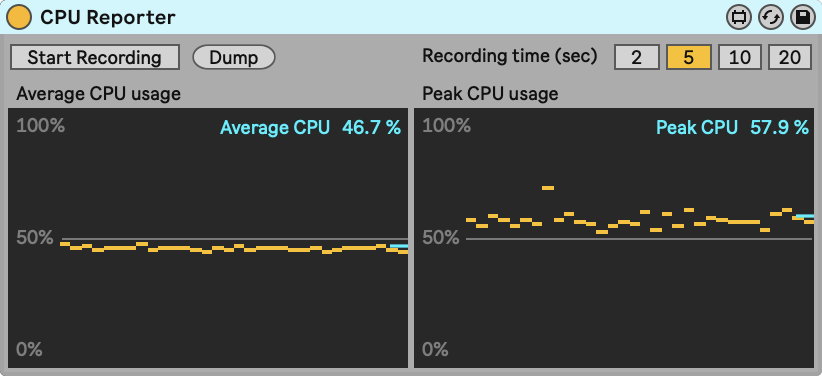
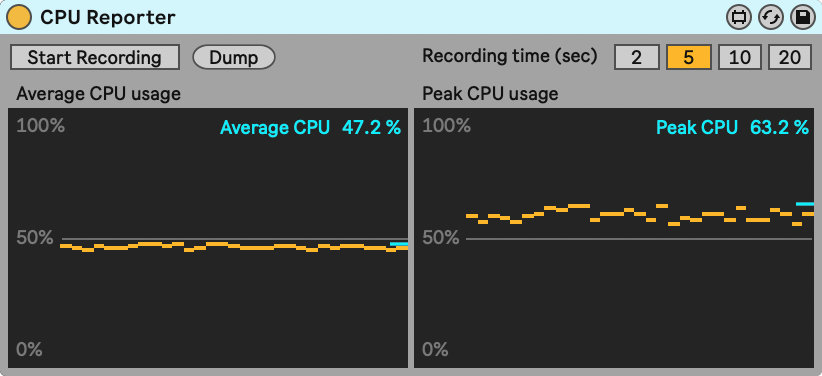
Small fixes
- Fix default dump file name
- Peak value now shows maximum peak
- Multisliders are hidden on load
- Correct Readme text, the device no longer shows a histogram

diff --git a/cpu-reporter/README.md b/cpu-reporter/README.md
@@ -6,7 +6,7 @@ The CPU Reporter is a small device that gives you more insight into a Live Set's
 
 <img width=412 alt="The CPU Reporter" src="images/CpuReporter.png">
 
-After recording the CPU usage for a chosen amount of time, this device shows a histogram of the reported average and peak values during the recording time, as well as the averages of those values within that time frame.
+After recording the CPU usage for a chosen amount of time, this device shows the reported average and peak values during the recording time. It also shows the total average of the average values and the maximum of the peak values within that time frame.
 
 ## Using the CPU Reporter ##
 
@@ -20,4 +20,4 @@ After recording the CPU usage for a chosen amount of time, this device shows a h
 
 The CPU Recorder device only reports Live's CPU usage for audio signal processing calculations, which can make your audio click or stutter when it goes over 100%. The device does not give you insight in how many of your CPU Live uses for other tasks, such as redrawing the interface.
 
-Measuring non-audio CPU usage can be done with the Activity Monitor (macOS) or Task Manager (Windows).
+Measuring the overall CPU usage of Live can be done with the Activity Monitor (macOS) or Task Manager (Windows).
